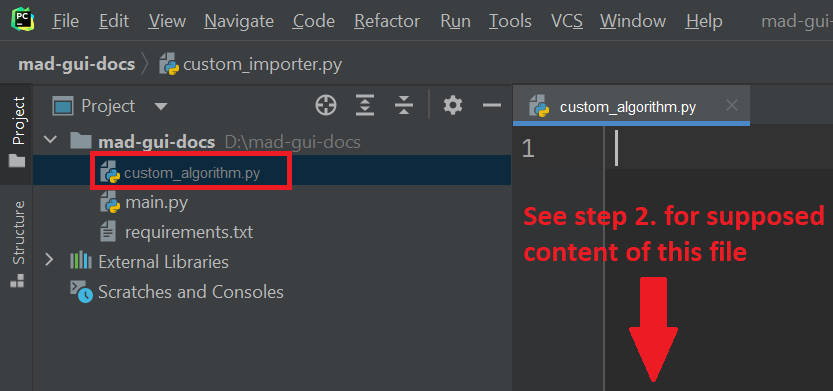
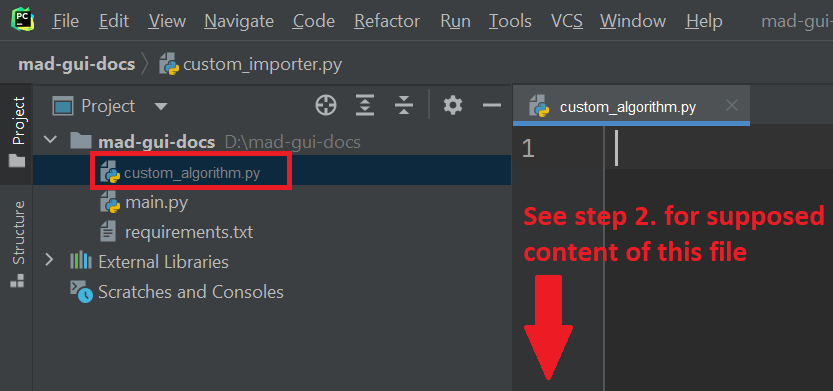
Shift arrows in docs image

Changed region(s): [[0.7491, 0.7059, 0.8115, 0.9821], [0.6242, 0.7059, 0.6867, 0.9821]]

diff --git a/README.md b/README.md
@@ -116,7 +116,10 @@ You do not have experience with python but still want to load data from a specif
 
 
 ## Can the GUI use my own algorithm?
-Yes, for more information see the answer of [Can the GUI load and display data of my specific system?](#can-the-gui-load-and-display-data-of-my-specific-system).
+Yes, however it will need someone who is familiar with python.
+This person needs to perform the steps described in [Development](https://mad-gui.readthedocs.io/en/latest/customization.html).
+Some supplementary basic information can be found in our section [Prepare Development](https://mad-gui.readthedocs.io/en/latest/developer_guidelines.html).
 
+You do not have experience with python but still want to load data from a specific system? [Contact us!](mailto:malte.ollenschlaeger@fau.de)
 ## Can I change something at the core of the GUI?
 Yes, for more information, please take a look at our [Contribution Guidelines](https://mad-gui.readthedocs.io/en/latest/contribution_guidelines.html#contribution-guidelines).
